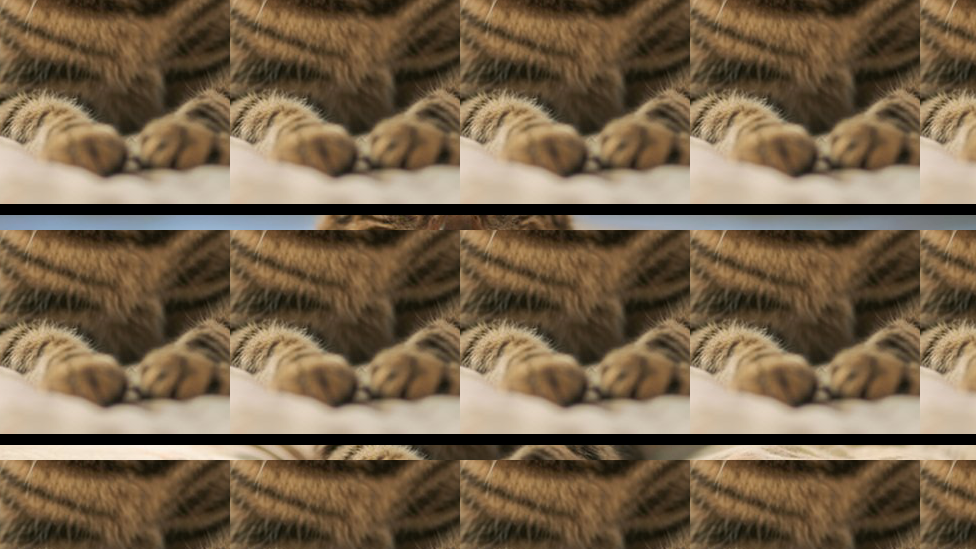
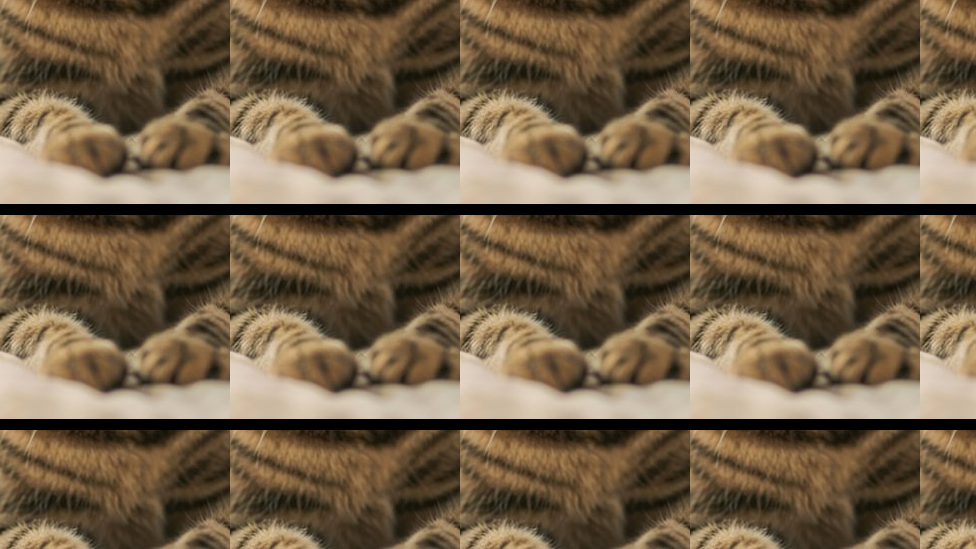
more manipulating images in python

diff --git a/python/playground/manipulating_images/making a collage with python.py b/python/playground/manipulating_images/making a collage with python.py
@@ -7,7 +7,7 @@ catTempWidth, catTempHeight =  catTemplate.size
 pawsWidth, pawsHeight = paws.size
 
 for left in range(0, catTempWidth,pawsWidth):
-    for top in range(0, catTempWidth,pawsWidth):
+    for top in range(0, catTempHeight,pawsHeight):
         print(left,top)
         catTemplate.paste(paws, (left,top))
 
@@ -19,39 +19,24 @@ openIm.rotate(0).show()
 
 # OUTPUT
 '''
+0 0 <-- OUTER FOR LOOP - -LEFT
+0 215 <-- INNER FOR LOOP
+0 430 <-- INNER FOR LOOP
 
-# ROW 1
-0 0
-0 230
-0 460
-0 690
-0 920
+230 0 <-- OUTER FOR LOOP - -LEFT
+230 215 <-- INNER FOR LOOP
+230 430 <-- INNER FOR LOOP
 
-# ROW 2
-230 0
-230 230
-230 460
-230 690
-230 920
+460 0 <-- OUTER FOR LOOP - -LEFT
+460 215 <-- INNER FOR LOOP
+460 430 <-- INNER FOR LOOP
 
-# ROW 3
-460 0
-460 230
-460 460
-460 690
-460 920
+690 0 <-- OUTER FOR LOOP - -LEFT
+690 215 <-- INNER FOR LOOP
+690 430 <-- INNER FOR LOOP
 
-# ROW 4
-690 0
-690 230
-690 460
-690 690
-690 920
+920 0 <-- OUTER FOR LOOP - -LEFT
+920 215 <-- INNER FOR LOOP
+920 430 <-- INNER FOR LOOP
 
-# ROW 5
-920 0
-920 230
-920 460
-920 690
-920 920
 '''

diff --git a/python/playground/manipulating_images/playground.py b/python/playground/manipulating_images/playground.py
@@ -6,8 +6,8 @@ catTemplate = Image.open("messy_cat.png")
 catTempWidth, catTempHeight =  catTemplate.size
 pawsWidth, pawsHeight = paws.size
 
-for left in range(0, catTempWidth,pawsWidth):
-    for top in range(0, catTempWidth,pawsWidth):
-        print(left,top)
-        catTemplate.paste(paws, (left,top))
+print(catTempWidth) #976
+print(catTempHeight) #549
 
+print(pawsWidth) #230
+print(pawsHeight) #215

diff --git a/python/playground/manipulating_images/README.md b/python/playground/manipulating_images/README.md
@@ -207,3 +207,49 @@ catTemplate = Image.open("messy_cat.png")
 
 catTempWidth, catTempHeight =  catTemplate.size
 pawsWidth, pawsHeight = paws.size
+
+- The outer FOR loops left variable starts at 0 and increases by 'pawsWidth'
+
+for left in range(0, catTempWidth,pawsWidth):
+
+- The NESTED for loops produce values for left and top to paste a grid of 'paws' over the 'catTemplate' object
+
+for top in range(0, catTempWidth,pawsWidth):
+    print(left,top)
+    catTemplate.paste(paws, (left,top))
+
+# OUTPUT
+'''
+0 0 <-- OUTER FOR LOOP - -LEFT
+0 215 <-- INNER FOR LOOP
+0 430 <-- INNER FOR LOOP
+
+230 0 <-- OUTER FOR LOOP - -LEFT
+230 215 <-- INNER FOR LOOP
+230 430 <-- INNER FOR LOOP
+
+460 0 <-- OUTER FOR LOOP - -LEFT
+460 215 <-- INNER FOR LOOP
+460 430 <-- INNER FOR LOOP
+
+690 0 <-- OUTER FOR LOOP - -LEFT
+690 215 <-- INNER FOR LOOP
+690 430 <-- INNER FOR LOOP
+
+920 0 <-- OUTER FOR LOOP - -LEFT
+920 215 <-- INNER FOR LOOP
+920 430 <-- INNER FOR LOOP
+
+'''
+
+
+
+
+
+
+
+print(catTempWidth) #976
+print(catTempHeight) #549
+
+print(pawsWidth) #230
+print(pawsHeight) #215
